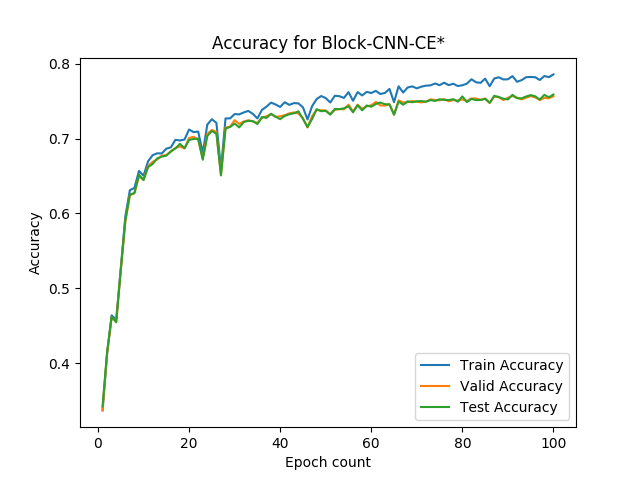
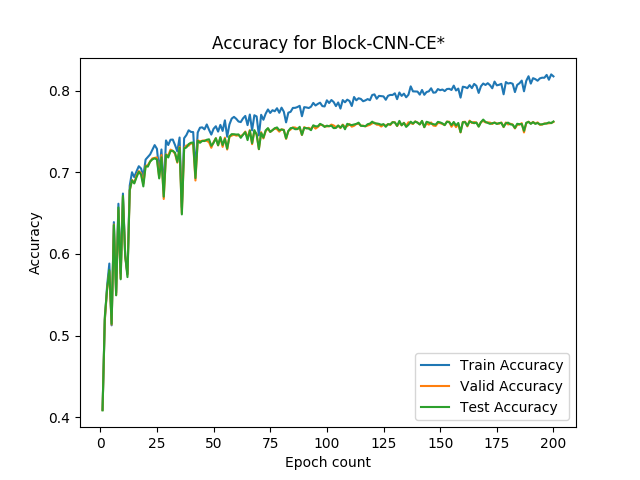
conv results

diff --git a/training.py b/training.py
@@ -13,7 +13,7 @@ target_length = 300 # 50
 learning_rate = 0.001
 num_words, dim_embedding = 11400, 100 # 100
 num_classes = 20
-num_epochs = 100
+num_epochs = 200
 base_path = "data/"
 word_path = "char_embeddings2/" # char_embeddings
 
